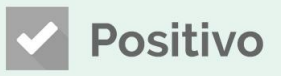
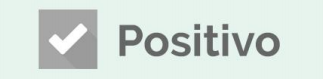
even moore beautiful

diff --git a/LabClick.Services/Services/LaudoServices.cs b/LabClick.Services/Services/LaudoServices.cs
@@ -67,11 +67,11 @@ namespace LabClick.Services.Services
 
             Stream str = new MemoryStream(testeImagem.Imagem);
             XImage xImage = XImage.FromStream(str);
-            gfx.DrawImage(xImage, 100, 290, 130, 130);
+            gfx.DrawImage(xImage, 100, 290, 150, 150);
 
             if (laudo.Resultado == "Positivo")
             {
-                gfx.DrawImage(XImage.FromFile(@"C:\Jobs\labclick\LabClick\Content\styles\images\positivo.PNG"), 120, 470, 150, 30);
+                gfx.DrawImage(XImage.FromFile(@"C:\Jobs\labclick\LabClick\Content\styles\images\positivo.PNG"), 110, 470, 130, 30);
             }
             else
             {
